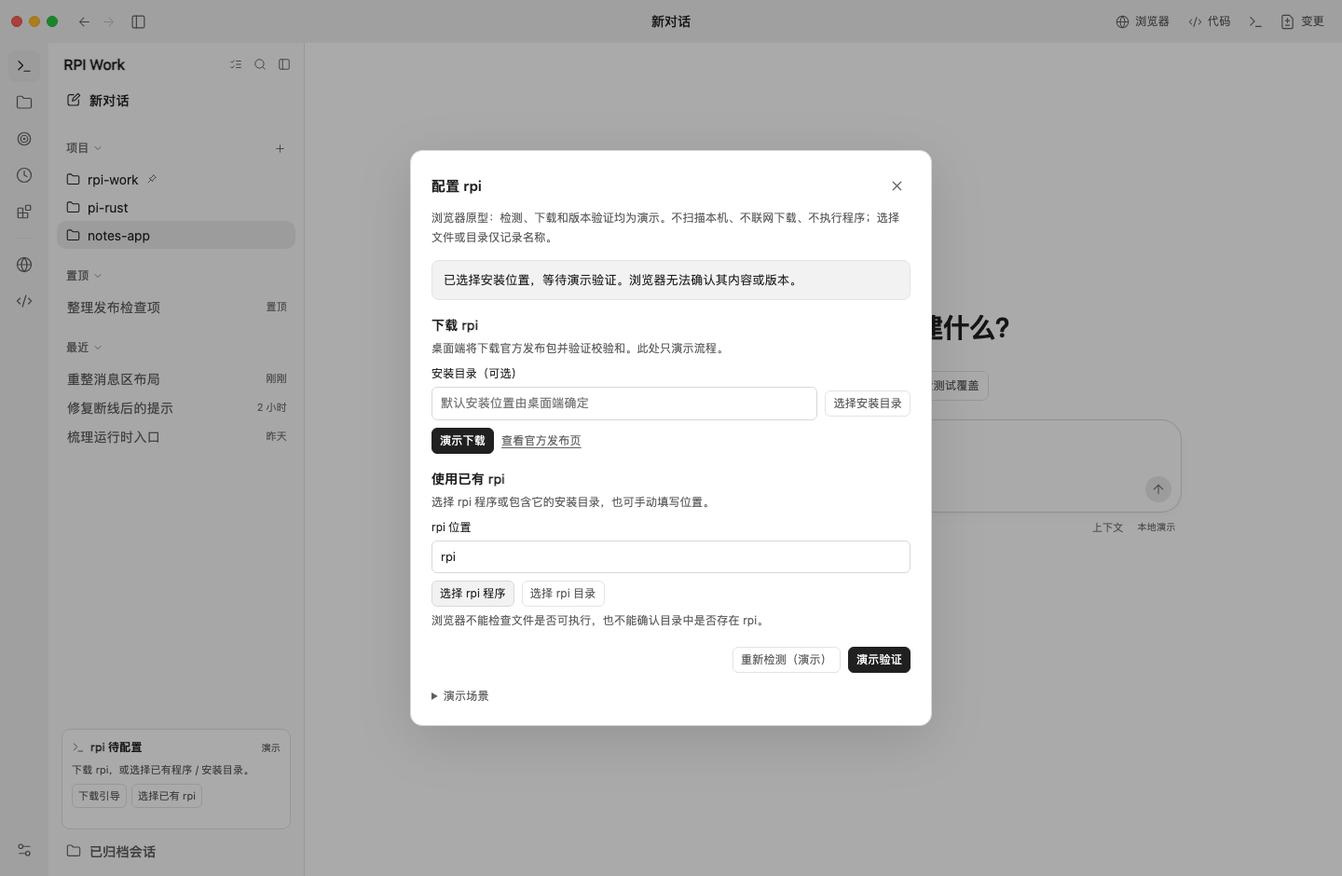
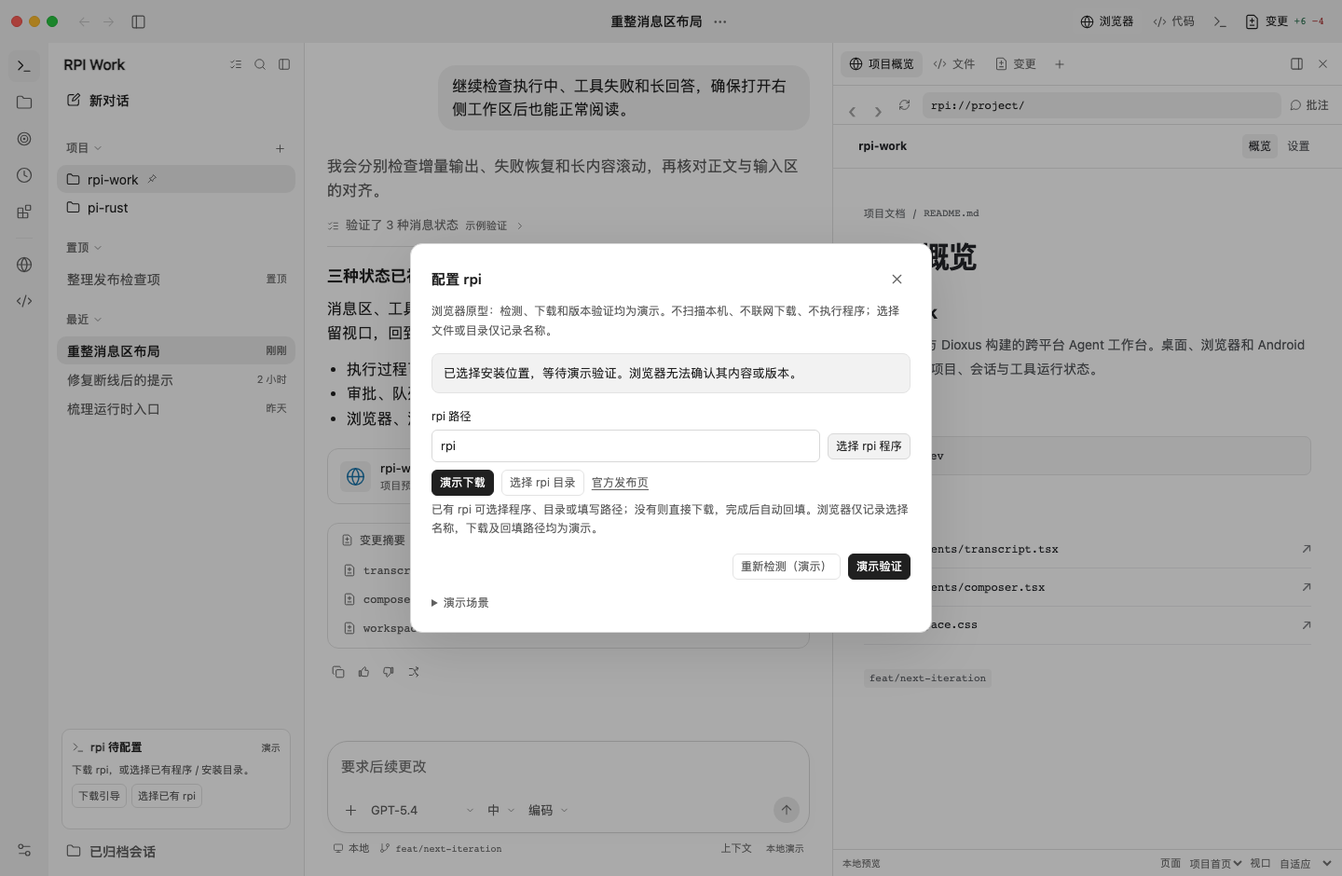
fix(reui): share rpi path and autofill after demo download

diff --git a/design/reui-message-layout/runtime-setup.js b/design/reui-message-layout/runtime-setup.js
@@ -3,7 +3,8 @@
   const dialog = document.querySelector('#runtime-dialog');
   const card = document.querySelector('#runtime-card');
   const locationInput = document.querySelector('#runtime-location');
-  const installInput = document.querySelector('#runtime-install-dir');
+  const progress = document.querySelector('#runtime-progress');
+  const progressLabel = document.querySelector('#runtime-progress-label');
   const scenario = document.querySelector('#runtime-scenario');
   const key = 'rpi-work-runtime-setup-demo-v1';
   const fixture = new URLSearchParams(location.search).get('runtime');
@@ -20,14 +21,13 @@
   let timer;
   let returnFocus = null;
   let pickerTicket = 0;
-  let directoryTarget = 'location';
+  let downloadProgress = 0;
   const action = name => dialog.querySelector(`[data-runtime-action="${name}"]`);
   const busy = () => ['checking', 'downloading', 'validating'].includes(stage);
   const messages = {
     checking: '正在检查启动环境（演示）；不会扫描本机 PATH 或执行程序。',
     missing: '未找到 rpi（演示）。可下载配置，或选择已有的 rpi 程序 / 安装目录。',
     downloading: '正在下载官方发布包（演示）；未发起网络请求，也未写入磁盘。',
-    downloaded: '下载完成（演示），请继续演示验证。真实安装须验证校验和及可执行性。',
     locating: '已选择安装位置，等待演示验证。浏览器无法确认其内容或版本。',
     validating: '正在验证版本与可执行性（演示）；没有运行 rpi。',
     ready: 'rpi 配置已保存（演示）。真实检测、安装及执行仍需接入桌面运行服务。',
@@ -45,13 +45,15 @@
     open.textContent = stage === 'ready' ? '查看配置' : '下载引导';
     for (const button of card.querySelectorAll('button')) button.disabled = busy();
     document.querySelector('#runtime-phase').textContent = messages[stage] + (stage === 'ready' && confirmed ? ' 位置：' + confirmed.label : '');
-    document.querySelector('#runtime-progress').hidden = !busy();
+    progress.hidden = progressLabel.hidden = !busy();
+    if (stage === 'downloading' || (stage === 'validating' && selection?.kind === 'download-demo')) progress.value = downloadProgress;
+    else progress.removeAttribute('value');
+    progressLabel.textContent = stage === 'downloading' ? `正在下载 · ${downloadProgress}%（演示）` : stage === 'validating' ? '正在自动校验，完成后回填路径（演示）' : '正在检测（演示）';
     for (const control of dialog.querySelectorAll('[data-runtime-action], .runtime-option input, #runtime-scenario')) control.disabled = busy();
     action('verify').disabled = busy() || !selection || stage === 'ready';
-    action('verify').hidden = stage === 'ready';
+    action('verify').hidden = !selection || stage === 'ready' || stage === 'downloading' || selection?.kind === 'download-demo';
     action('done').hidden = stage !== 'ready';
-    document.querySelector('#runtime-download').hidden = stage === 'ready';
-    document.querySelector('#runtime-manual').hidden = stage === 'ready';
+    action('download').hidden = stage === 'ready';
   }
   function later(callback, delay = 700) {
     clearTimeout(timer);
@@ -71,27 +73,56 @@
       returnFocus = { node, start: node.selectionStart, end: node.selectionEnd, direction: node.selectionDirection };
     }
     error();
-    if (manual) {
-      stage = selection ? 'locating' : 'missing';
-      locationInput.value = selection?.label ?? '';
-    }
+    if (manual) stage = selection ? 'locating' : 'missing';
+    locationInput.value = selection?.label ?? '';
     render();
     if (!dialog.open) dialog.showModal();
     (manual ? locationInput : action(stage === 'ready' ? 'done' : 'download')).focus();
   }
-  function select(label, kind, target = 'location') {
+  function select(label, kind) {
     ++pickerTicket;
     error();
-    if (target === 'install') {
-      installInput.value = label;
-    } else {
-      locationInput.value = label;
-      selection = { demo: true, kind, label };
-      stage = 'locating'; render();
-    }
+    locationInput.value = label;
+    selection = { demo: true, kind, label };
+    stage = 'locating'; render();
   }
-  async function directory(target) {
-    directoryTarget = target;
+  function verify() {
+    if (!selection) return;
+    ++pickerTicket;
+    error(); stage = 'validating'; render();
+    later(() => {
+      if (!dialog.open) return;
+      if (scenario.value === 'verify-error') {
+        stage = 'error'; error('验证失败（演示）。未确认 rpi 的版本或可执行性，请重新选择或重试。');
+      } else {
+        confirmed = { ...selection, demo: true };
+        locationInput.value = confirmed.label;
+        try { localStorage.setItem(key, JSON.stringify(confirmed)); } catch { /* Session-only setup remains usable. */ }
+        stage = 'ready';
+      }
+      render();
+    });
+  }
+  function download() {
+    ++pickerTicket;
+    downloadProgress = 0;
+    error(); selection = null; stage = 'downloading'; render();
+    const tick = () => {
+      if (!dialog.open) return;
+      downloadProgress += 20;
+      if (downloadProgress < 100) {
+        render(); later(tick, 200);
+      } else if (scenario.value === 'download-error') {
+        stage = 'error'; error('下载失败（演示）。未写入任何文件，可重试下载或手动定位 rpi。'); render();
+      } else {
+        // Example result from a future desktop installer, not a real local path.
+        selection = { demo: true, kind: 'download-demo', label: '~/.local/bin/rpi' };
+        verify();
+      }
+    };
+    later(tick, 200);
+  }
+  async function directory() {
     const ticket = ++pickerTicket;
     if (typeof window.showDirectoryPicker !== 'function') {
       document.querySelector('#runtime-directory-picker').dataset.ticket = String(ticket);
@@ -102,7 +133,7 @@
       const handle = await window.showDirectoryPicker({ mode: 'read' });
       if (ticket !== pickerTicket || !dialog.open) return;
       if (handle.kind !== 'directory' || !handle.name) throw new Error('Invalid directory');
-      select(handle.name + '/', 'directory-name', target);
+      select(handle.name + '/', 'directory-name');
     } catch (failure) {
       if (ticket === pickerTicket && dialog.open && failure.name !== 'AbortError') error('无法打开目录选择器，可手动填写位置。已有选择未改变。');
     }
@@ -117,41 +148,13 @@
         document.querySelector('#runtime-program-picker').dataset.ticket = String(++pickerTicket);
         document.querySelector('#runtime-program-picker').click();
         break;
-      case 'directory': directory('location'); break;
-      case 'install-directory': directory('install'); break;
+      case 'directory': directory(); break;
       case 'done': dialog.close(); break;
       case 'recheck': check(); break;
-      case 'download':
-        ++pickerTicket;
-        error(); selection = null; stage = 'downloading'; render();
-        later(() => {
-          if (scenario.value === 'download-error') {
-            stage = 'error'; error('下载失败（演示）。未写入任何文件，可重试下载或手动定位 rpi。');
-          } else {
-            selection = { demo: true, kind: 'download-demo', label: installInput.value.trim() || '默认安装位置（演示）' };
-            stage = 'downloaded';
-          }
-          render();
-        }, 1000);
-        break;
-      case 'verify':
-        if (!selection) return;
-        ++pickerTicket;
-        error(); stage = 'validating'; render();
-        later(() => {
-          if (scenario.value === 'verify-error') {
-            stage = 'error'; error('验证失败（演示）。未确认 rpi 的版本或可执行性，请重新选择或重试。');
-          } else {
-            confirmed = { ...selection, demo: true };
-            try { localStorage.setItem(key, JSON.stringify(confirmed)); } catch { /* Session-only setup remains usable. */ }
-            stage = 'ready';
-          }
-          render();
-        });
-        break;
+      case 'download': download(); break;
+      case 'verify': verify(); break;
     }
   });
-  installInput.addEventListener('input', () => { ++pickerTicket; });
   locationInput.addEventListener('input', () => {
     ++pickerTicket;
     error();
@@ -168,7 +171,7 @@
   document.querySelector('#runtime-directory-picker').addEventListener('change', event => {
     const name = event.target.files[0]?.webkitRelativePath.split('/')[0];
     event.target.value = '';
-    if (name && dialog.open && !busy() && Number(event.target.dataset.ticket) === pickerTicket) select(name + '/', 'directory-name', directoryTarget);
+    if (name && dialog.open && !busy() && Number(event.target.dataset.ticket) === pickerTicket) select(name + '/', 'directory-name');
   });
   dialog.addEventListener('close', () => {
     clearTimeout(timer); ++pickerTicket;

diff --git a/design/reui-message-layout/index.html b/design/reui-message-layout/index.html
@@ -422,18 +422,14 @@
     <div class="dialog-heading"><h2 id="runtime-title">配置 rpi</h2><form method="dialog"><button class="icon-button" aria-label="关闭 rpi 配置"><i data-icon="x"></i></button></form></div>
     <p class="runtime-boundary" id="runtime-boundary">浏览器原型：检测、下载和版本验证均为演示。不扫描本机、不联网下载、不执行程序；选择文件或目录仅记录名称。</p>
     <div id="runtime-phase" class="runtime-phase" role="status"></div>
-    <progress id="runtime-progress" aria-label="rpi 设置进度（演示）" hidden></progress>
-    <section id="runtime-download" class="runtime-option">
-      <h3>下载 rpi</h3><p>桌面端将下载官方发布包并验证校验和。此处只演示流程。</p>
-      <label for="runtime-install-dir">安装目录（可选）</label><div class="runtime-path-row"><input id="runtime-install-dir" placeholder="默认安装位置由桌面端确定"><button type="button" class="action-button" data-runtime-action="install-directory">选择安装目录</button></div>
-      <div class="runtime-option-actions"><button type="button" class="action-button primary" data-runtime-action="download">演示下载</button><a href="https://github.com/bigfish1913/pi-rust/releases" target="_blank" rel="noopener noreferrer">查看官方发布页</a></div>
-    </section>
     <section id="runtime-manual" class="runtime-option">
-      <h3>使用已有 rpi</h3><p>选择 rpi 程序或包含它的安装目录，也可手动填写位置。</p>
-      <label for="runtime-location">rpi 位置</label><input id="runtime-location" placeholder="选择程序、目录，或输入路径" aria-describedby="runtime-selection-note runtime-error">
-      <div class="runtime-option-actions"><button type="button" class="action-button" data-runtime-action="program">选择 rpi 程序</button><button type="button" class="action-button" data-runtime-action="directory">选择 rpi 目录</button></div>
-      <p id="runtime-selection-note" class="settings-note">浏览器不能检查文件是否可执行，也不能确认目录中是否存在 rpi。</p>
+      <label for="runtime-location">rpi 路径</label>
+      <div class="runtime-path-row"><input id="runtime-location" placeholder="选择已有程序，或下载后自动填入" aria-describedby="runtime-selection-note runtime-error"><button type="button" class="action-button" data-runtime-action="program">选择 rpi 程序</button></div>
+      <div class="runtime-option-actions"><button type="button" class="action-button primary" data-runtime-action="download">演示下载</button><button type="button" class="action-button" data-runtime-action="directory">选择 rpi 目录</button><a href="https://github.com/bigfish1913/pi-rust/releases" target="_blank" rel="noopener noreferrer">官方发布页</a></div>
+      <p id="runtime-selection-note" class="settings-note">已有 rpi 可选择程序、目录或填写路径；没有则直接下载，完成后自动回填。浏览器仅记录选择名称，下载及回填路径均为演示。</p>
     </section>
+    <p id="runtime-progress-label" hidden></p>
+    <progress id="runtime-progress" max="100" aria-label="rpi 设置进度（演示）" aria-describedby="runtime-progress-label" hidden></progress>
     <p id="runtime-error" class="project-form-error" role="alert" hidden></p>
     <div class="runtime-dialog-actions"><button type="button" class="action-button" data-runtime-action="recheck">重新检测（演示）</button><button type="button" class="action-button primary" data-runtime-action="verify" disabled>演示验证</button><button type="button" class="action-button primary" data-runtime-action="done" hidden>返回工作台</button></div>
     <details class="runtime-demo-options"><summary>演示场景</summary><label for="runtime-scenario">操作结果</label><select id="runtime-scenario"><option value="success">成功</option><option value="download-error">下载失败</option><option value="verify-error">验证失败</option></select></details>

diff --git a/design/reui-message-layout/runtime-setup.css b/design/reui-message-layout/runtime-setup.css
@@ -13,7 +13,8 @@
 #runtime-dialog { width: min(560px, calc(100vw - 24px)); max-height: min(760px, calc(100dvh - 32px)); padding: 22px; }
 .runtime-boundary { margin: 0 0 14px; color: var(--muted); font-size: 12px; line-height: 1.7; }
 .runtime-phase { padding: 10px 12px; border: 1px solid var(--line); border-radius: 8px; background: var(--subtle); font-size: 13px; line-height: 1.6; }
-#runtime-progress { width: 100%; height: 5px; margin-top: 10px; accent-color: var(--accent); }
+#runtime-progress { width: 100%; height: 5px; margin-top: 4px; accent-color: var(--accent); }
+#runtime-progress-label { margin: 12px 0 0; color: var(--muted); font-size: 12px; }
 .runtime-option { margin-top: 16px; }
 .runtime-option h3 { margin: 0; font-size: 14px; font-weight: 550; }
 .runtime-option p { margin: 5px 0 9px; color: var(--muted); font-size: 12px; line-height: 1.6; }

diff --git a/design/reui-message-layout/README.md b/design/reui-message-layout/README.md
@@ -16,7 +16,7 @@
 
 ## 可以直接试的流程
 
-- **rpi 启动引导**　启动时先显示演示检测状态：[已检测到可用 rpi](screenshots/rpi-startup-ready.png) 则直接进入工作台，不弹窗；未检测到才自动弹出配置选择，让用户选择下载安装或手动指定已有 rpi。下载安装可选择安装目录，演示下载、验证以及失败重试；手动定位可选择 `rpi` / `rpi.exe` 程序、已有安装目录，或填写位置。下载完成不等于验证通过，只有演示验证成功才保存演示配置，刷新后保留且不再弹窗。关闭引导会取消进行中的演示任务，保留草稿、选区及原焦点，本次启动不重复弹出；之后仍可通过侧栏重新打开。所有检测、下载和执行都没有真实接入，只有文件/目录选择器是真实浏览器交互；官方发布页需要用户主动打开。[缺失时自动引导](screenshots/rpi-startup-guide.png) · [手动定位](screenshots/rpi-setup-manual.png) · [演示配置完成](screenshots/rpi-setup-ready.png)
+- **rpi 启动引导**　启动时先显示演示检测状态：[已检测到可用 rpi](screenshots/rpi-startup-ready.png) 则直接进入工作台，不弹窗；未检测到才自动弹出配置选择，让用户选择下载安装或手动指定已有 rpi。弹窗只保留一个「rpi 路径」框，下载和手动定位共用。没有 rpi 时点下载便直接显示[百分比进度](screenshots/rpi-setup-downloading.png)，随后自动演示校验，成功后回填同一路径框并保存，无须先选择安装目录或再次点验证；失败不回填、不保存成功配置。已有 rpi 可选择 `rpi` / `rpi.exe` 程序、已有目录，或手动填写位置。示例回填路径 `~/.local/bin/rpi` 不代表本机已安装；演示配置刷新后保留且不再弹窗。关闭引导会取消进行中的演示任务，保留草稿、选区及原焦点，本次启动不重复弹出；之后仍可通过侧栏重新打开。所有检测、下载和执行都没有真实接入，只有文件/目录选择器是真实浏览器交互；官方发布页需要用户主动打开。[缺失时自动引导](screenshots/rpi-startup-guide.png) · [手动定位](screenshots/rpi-setup-manual.png) · [演示配置完成](screenshots/rpi-setup-ready.png)
 - **添加项目**　独立「项目」分组的标题旁放置「＋」图标，悬停提示「添加项目」。支持「选择文件夹」，名称自动填入，也可自行编辑名称或手动填写路径。优先使用原生目录选择器，不支持时使用浏览器文件夹输入；取消、拒绝或过期结果不覆盖原填写。浏览器只记录目录名，不返回绝对路径，也不读取文件内容；绝对路径与真实目录接入留给桌面端。添加后进入新项目对话，只展开项目分组，不改变最近会话的折叠或筛选状态。空白名称/路径和重名会提示；取消或 Esc 不添加项目、不清空原对话草稿。项目元数据仅保存在浏览器，不创建目录。[入口截图](screenshots/add-project-entry.png) · [添加弹窗](screenshots/add-project-dialog.png) · [添加完成](screenshots/project-added.png)
 - **项目与会话**　「项目」「置顶」「最近」分别折叠、独立保存偏好。项目列表只显示项目；点击项目进入该项目的新对话，项目菜单支持将项目排在项目列表前面，不会移动其会话。「置顶」只显示单独置顶的会话；「最近」直接平铺其他会话，不再按项目嵌套，悬停会话可查看所属项目和完整标题。会话菜单支持置顶、重命名、分叉、交接或归档。顶栏箭头沿本次访问过的会话前进、后退。搜索和执行中/待审批筛选仅影响会话，项目仍可独立访问。旧版最近分组折叠偏好会迁移到新版最近会话，不误折叠项目列表。归档会话可从设置恢复。
 - **输入与目标**　在输入框键入 `/` 搜索命令，使用 `/plan` 切换计划、`/status` 查看上下文、`/new` 新建聊天，有改动时可选 `/review`。输入 `@` 可选择示例文件或已打开目录中的文件。按 ↑/↓ 选择，Enter 或 Tab 确认。通过 `/goal` 或左侧目标按钮为当前聊天设定目标，输入框上方可以编辑、暂停、继续或移除。建立目标会启动或排队一次演示轮次，暂停会停止该目标正在运行的轮次并移除它的排队项。
@@ -59,7 +59,7 @@ python3 -m http.server 4193 --bind 127.0.0.1 --directory design/reui-message-lay
 
 用仓库 `tools/` 中的 Playwright 和已安装的 Chromium 运行浏览器回归。设置环境变量 `RPI_WORKBENCH_SHOTS` 可将截图输出到指定目录。
 
-当前回归包含 21 组流程。安装引导检查覆盖已配置时不弹窗、未配置时自动弹出选择、关闭后不重复弹出、下载完成但未验证、下载/验证失败及重试、关闭后取消演示任务、手动选择程序/安装目录及配置刷新保留；项目目录检查覆盖原生 API 桩与真实浏览器文件夹输入、空目录句柄、取消/拒绝、过期结果和自定义名称保留，禁止应用读取测试文件内容，不执行程序或发起下载请求。这不等于原生桌面安装或系统文件选择器已经实机验收。侧栏检查覆盖项目/置顶/最近的数据分离、最近会话平铺且不重复、项目置顶只改变项目排序、独立折叠持久化、旧版偏好迁移、项目按钮及菜单键盘导航。添加项目检查覆盖项目标题旁的图标入口、可访问名称和悬停提示、打开时输入焦点、取消后草稿/选区/阅读位置与入口焦点保留、空白和重名提示、重新打开时清除旧错误、Esc 关闭，以及从折叠/筛选状态添加后的项目可见性、会话折叠/筛选保留、新对话归属与刷新保存。焦点检查在16种消息代码和8种源码只读/编辑桌面组合中读取PNG四边焦点像素，并验证消息代码Tab进入/离开/返回与草稿选区保留。原生ArrowRight探针在新窗口也曾超时，不列入稳定默认门槛；需明确设置 `RPI_WORKBENCH_NATIVE_SCROLL_PROBE=1` 才运行可选诊断，不代表原生键滚已完整覆盖。复制检查在隔离的剪贴板API桩内验证正文/代码/源码/diff精确载荷、正文不夹带控件、拒绝/缺失/同步抛错与重试图标恢复、延迟完成时的草稿/焦点/阅读位置，以及切换文件后的结果归属；不写真实系统剪贴板，也不等于原生权限或系统粘贴实机验证。阅读对比度检查覆盖消息/代码/diff的92个明暗计算颜色样本，包括代码计数器和增删行号，要求在实际均匀背景上至少4.5:1；这只是列明范围的对比度检查，不是全应用无障碍认证。Diff 阅读检查覆盖长行横向滚动时固定行号和反馈入口、长文件名单行省略、反馈/发现按可见宽度换行、鼠标与键盘的新/旧行位置，以及明暗、桌面宽度和320px窄面板。正文排版检查覆盖已有/新回答在16/18px、舒适/紧凑、明暗和阅读/经典布局下的一致行距，字号/密度变化后的可见块锚点与底部跟随，代码/日志独立字号、草稿/DOM/展开状态保留，以及长正文换行和代码局部横向滚动。预览像素检查从原始整窗 PNG 统计标题和主体的文字像素，覆盖浅/深/系统主题、弹窗往返与普通/可控时钟；同时确认主题切换不重载 iframe、不丢未保存表单和选区、不放宽沙箱。先前的「预览主体空白」目检记录已被原始截图与裁切证据推翻，详见视觉基准。消息层次检查覆盖最终正文与阅读列对齐、完成步骤默认折叠、原生摘要键盘开关、明暗/阅读/经典布局、完成和后台完成时保留已展开工具，以及「开始实施」和失败重试入口始终可见。会话阅读恢复检查覆盖各会话的滚动锚点、工具展开与收起、前进后退、资源页往返、后台流式更新、原本在底部时继续跟随，以及历史加载场景和字号/布局变化后的返回。阅读布局检查覆盖两种布局的实际几何与样式、刷新持久化、无效偏好回退、草稿和工具展开状态、滚动锚点、1440/1280/1024px 桌面宽度，以及新对话的空变更收起、返回恢复、鼠标与键盘手动覆盖和浏览器/源码保留。历史展示检查覆盖加载和失败时禁发、重试恢复、草稿与附件刷新保留、快速切换时的过期结果取消，以及空态发送首条消息。输入菜单检查覆盖 Home/End 与 Shift 选区变化、过期引用范围保护、上下键选择、正文前缀保留，以及中文组合事件与菜单/发送的隔离；事件回归不等于所有原生输入法都已实机验证。截图输出包含相同视口与字号下的两种布局、深色布局、三种新对话面板状态及历史加载/失败/恢复。这些是原型交互与布局验证，不代表已经实现桌面像素级 1:1 对齐。
+当前回归包含 21 组流程。安装引导检查覆盖已配置时不弹窗、未配置时自动弹出选择、关闭后不重复弹出、唯一路径框、下载百分比、下载后自动校验与成功回填、下载/验证失败不回填及重试、下载/自动校验期间关闭后取消演示任务、手动选择程序/安装目录及配置刷新保留；项目目录检查覆盖原生 API 桩与真实浏览器文件夹输入、空目录句柄、取消/拒绝、过期结果和自定义名称保留，禁止应用读取测试文件内容，不执行程序或发起下载请求。这不等于原生桌面安装或系统文件选择器已经实机验收。侧栏检查覆盖项目/置顶/最近的数据分离、最近会话平铺且不重复、项目置顶只改变项目排序、独立折叠持久化、旧版偏好迁移、项目按钮及菜单键盘导航。添加项目检查覆盖项目标题旁的图标入口、可访问名称和悬停提示、打开时输入焦点、取消后草稿/选区/阅读位置与入口焦点保留、空白和重名提示、重新打开时清除旧错误、Esc 关闭，以及从折叠/筛选状态添加后的项目可见性、会话折叠/筛选保留、新对话归属与刷新保存。焦点检查在16种消息代码和8种源码只读/编辑桌面组合中读取PNG四边焦点像素，并验证消息代码Tab进入/离开/返回与草稿选区保留。原生ArrowRight探针在新窗口也曾超时，不列入稳定默认门槛；需明确设置 `RPI_WORKBENCH_NATIVE_SCROLL_PROBE=1` 才运行可选诊断，不代表原生键滚已完整覆盖。复制检查在隔离的剪贴板API桩内验证正文/代码/源码/diff精确载荷、正文不夹带控件、拒绝/缺失/同步抛错与重试图标恢复、延迟完成时的草稿/焦点/阅读位置，以及切换文件后的结果归属；不写真实系统剪贴板，也不等于原生权限或系统粘贴实机验证。阅读对比度检查覆盖消息/代码/diff的92个明暗计算颜色样本，包括代码计数器和增删行号，要求在实际均匀背景上至少4.5:1；这只是列明范围的对比度检查，不是全应用无障碍认证。Diff 阅读检查覆盖长行横向滚动时固定行号和反馈入口、长文件名单行省略、反馈/发现按可见宽度换行、鼠标与键盘的新/旧行位置，以及明暗、桌面宽度和320px窄面板。正文排版检查覆盖已有/新回答在16/18px、舒适/紧凑、明暗和阅读/经典布局下的一致行距，字号/密度变化后的可见块锚点与底部跟随，代码/日志独立字号、草稿/DOM/展开状态保留，以及长正文换行和代码局部横向滚动。预览像素检查从原始整窗 PNG 统计标题和主体的文字像素，覆盖浅/深/系统主题、弹窗往返与普通/可控时钟；同时确认主题切换不重载 iframe、不丢未保存表单和选区、不放宽沙箱。先前的「预览主体空白」目检记录已被原始截图与裁切证据推翻，详见视觉基准。消息层次检查覆盖最终正文与阅读列对齐、完成步骤默认折叠、原生摘要键盘开关、明暗/阅读/经典布局、完成和后台完成时保留已展开工具，以及「开始实施」和失败重试入口始终可见。会话阅读恢复检查覆盖各会话的滚动锚点、工具展开与收起、前进后退、资源页往返、后台流式更新、原本在底部时继续跟随，以及历史加载场景和字号/布局变化后的返回。阅读布局检查覆盖两种布局的实际几何与样式、刷新持久化、无效偏好回退、草稿和工具展开状态、滚动锚点、1440/1280/1024px 桌面宽度，以及新对话的空变更收起、返回恢复、鼠标与键盘手动覆盖和浏览器/源码保留。历史展示检查覆盖加载和失败时禁发、重试恢复、草稿与附件刷新保留、快速切换时的过期结果取消，以及空态发送首条消息。输入菜单检查覆盖 Home/End 与 Shift 选区变化、过期引用范围保护、上下键选择、正文前缀保留，以及中文组合事件与菜单/发送的隔离；事件回归不等于所有原生输入法都已实机验证。截图输出包含相同视口与字号下的两种布局、深色布局、三种新对话面板状态及历史加载/失败/恢复。这些是原型交互与布局验证，不代表已经实现桌面像素级 1:1 对齐。
 
 ```sh
 node design/reui-message-layout/verify.cjs

diff --git a/design/reui-message-layout/DESIGN-REVIEW.md b/design/reui-message-layout/DESIGN-REVIEW.md
@@ -35,10 +35,10 @@
 用户确认先补原型：添加项目可以选择文件夹，启动时体现 rpi 缺失后的下载安装引导，或手动选择已有程序 / 安装目录。
 
 - 添加项目优先使用原生目录选择器，回退到浏览器文件夹输入；自动填写名称但保留自定义名称。取消、拒绝或返回过晚的选择不覆盖当前表单。目录名不是绝对路径，界面明确说明；不读取所选文件内容。
-- 启动分支按最新确认调整：[已检测到可用 rpi](screenshots/rpi-startup-ready.png) 时静默进入工作台，不弹窗；未检测到才自动弹出[配置选择](screenshots/rpi-startup-guide.png)，让用户选择下载安装或手动指定已有 rpi。不静默下载安装，关闭后本次启动不再自动弹出，侧栏保留重新打开入口。选择目标目录后可演示下载和验证；下载完成与验证通过分开，失败可重试。
+- 启动分支按最新确认调整：[已检测到可用 rpi](screenshots/rpi-startup-ready.png) 时静默进入工作台，不弹窗；未检测到才自动弹出[配置选择](screenshots/rpi-startup-guide.png)，让用户选择下载安装或手动指定已有 rpi。不静默下载安装，关闭后本次启动不再自动弹出，侧栏保留重新打开入口。下载和手动定位共用唯一的 rpi 路径框，不再另选下载目标目录；点击下载立即显示[百分比进度](screenshots/rpi-setup-downloading.png)，下载后自动演示校验，成功才回填路径并保存配置，无须再次点验证。失败可重试且不回填成功路径；下载或自动校验期间关闭都取消任务。
 - 可[手动定位](screenshots/rpi-setup-manual.png) `rpi` / `rpi.exe` 或已有安装目录，也可填写位置。选择程序仅做文件名检查，不能证明其可执行性、版本或安全性。
-- 检测、下载、校验和及版本验证都没有真实接入；只有选择器是真实浏览器交互，成功仅保存[演示配置](screenshots/rpi-setup-ready.png)。关闭引导取消未完成的演示任务，保留草稿及选区。官方发布页须用户主动打开，本原型不运行安装脚本。
-- 新增专门回归覆盖以上成功、失败、取消、过期及刷新场景；新增断言验证检测成功不弹窗、缺失自动弹出、关闭不反复弹出、自动引导结束后草稿选区及焦点恢复，整体21组通过。其他工作台回归显式使用启动成功夹具，组合视图查询参数时不会丢失启动状态。未读取文件内容、未联网下载、未执行程序。自动化目录句柄使用桩，文件夹输入使用临时目录，不等于原生桌面安装与系统选择器的完整实机验收。
+- 检测、下载、校验和及版本验证都没有真实接入；只有选择器是真实浏览器交互，成功仅保存[演示配置并回填可见路径](screenshots/rpi-setup-ready.png)，示例 `~/.local/bin/rpi` 不是本机真实安装结果。关闭引导取消未完成的演示任务，保留草稿及选区。官方发布页须用户主动打开，本原型不运行安装脚本。
+- 新增专门回归覆盖以上成功、失败、取消、过期及刷新场景；新增断言验证检测成功不弹窗、缺失自动弹出、关闭不反复弹出、自动引导结束后草稿选区及焦点恢复，以及唯一路径框、下载百分比、自动校验后回填、失败不回填与校验期间取消，整体21组通过。其他工作台回归显式使用启动成功夹具，组合视图查询参数时不会丢失启动状态。未读取文件内容、未联网下载、未执行程序。自动化目录句柄使用桩，文件夹输入使用临时目录，不等于原生桌面安装与系统选择器的完整实机验收。
 
 ## 当前结论
 
